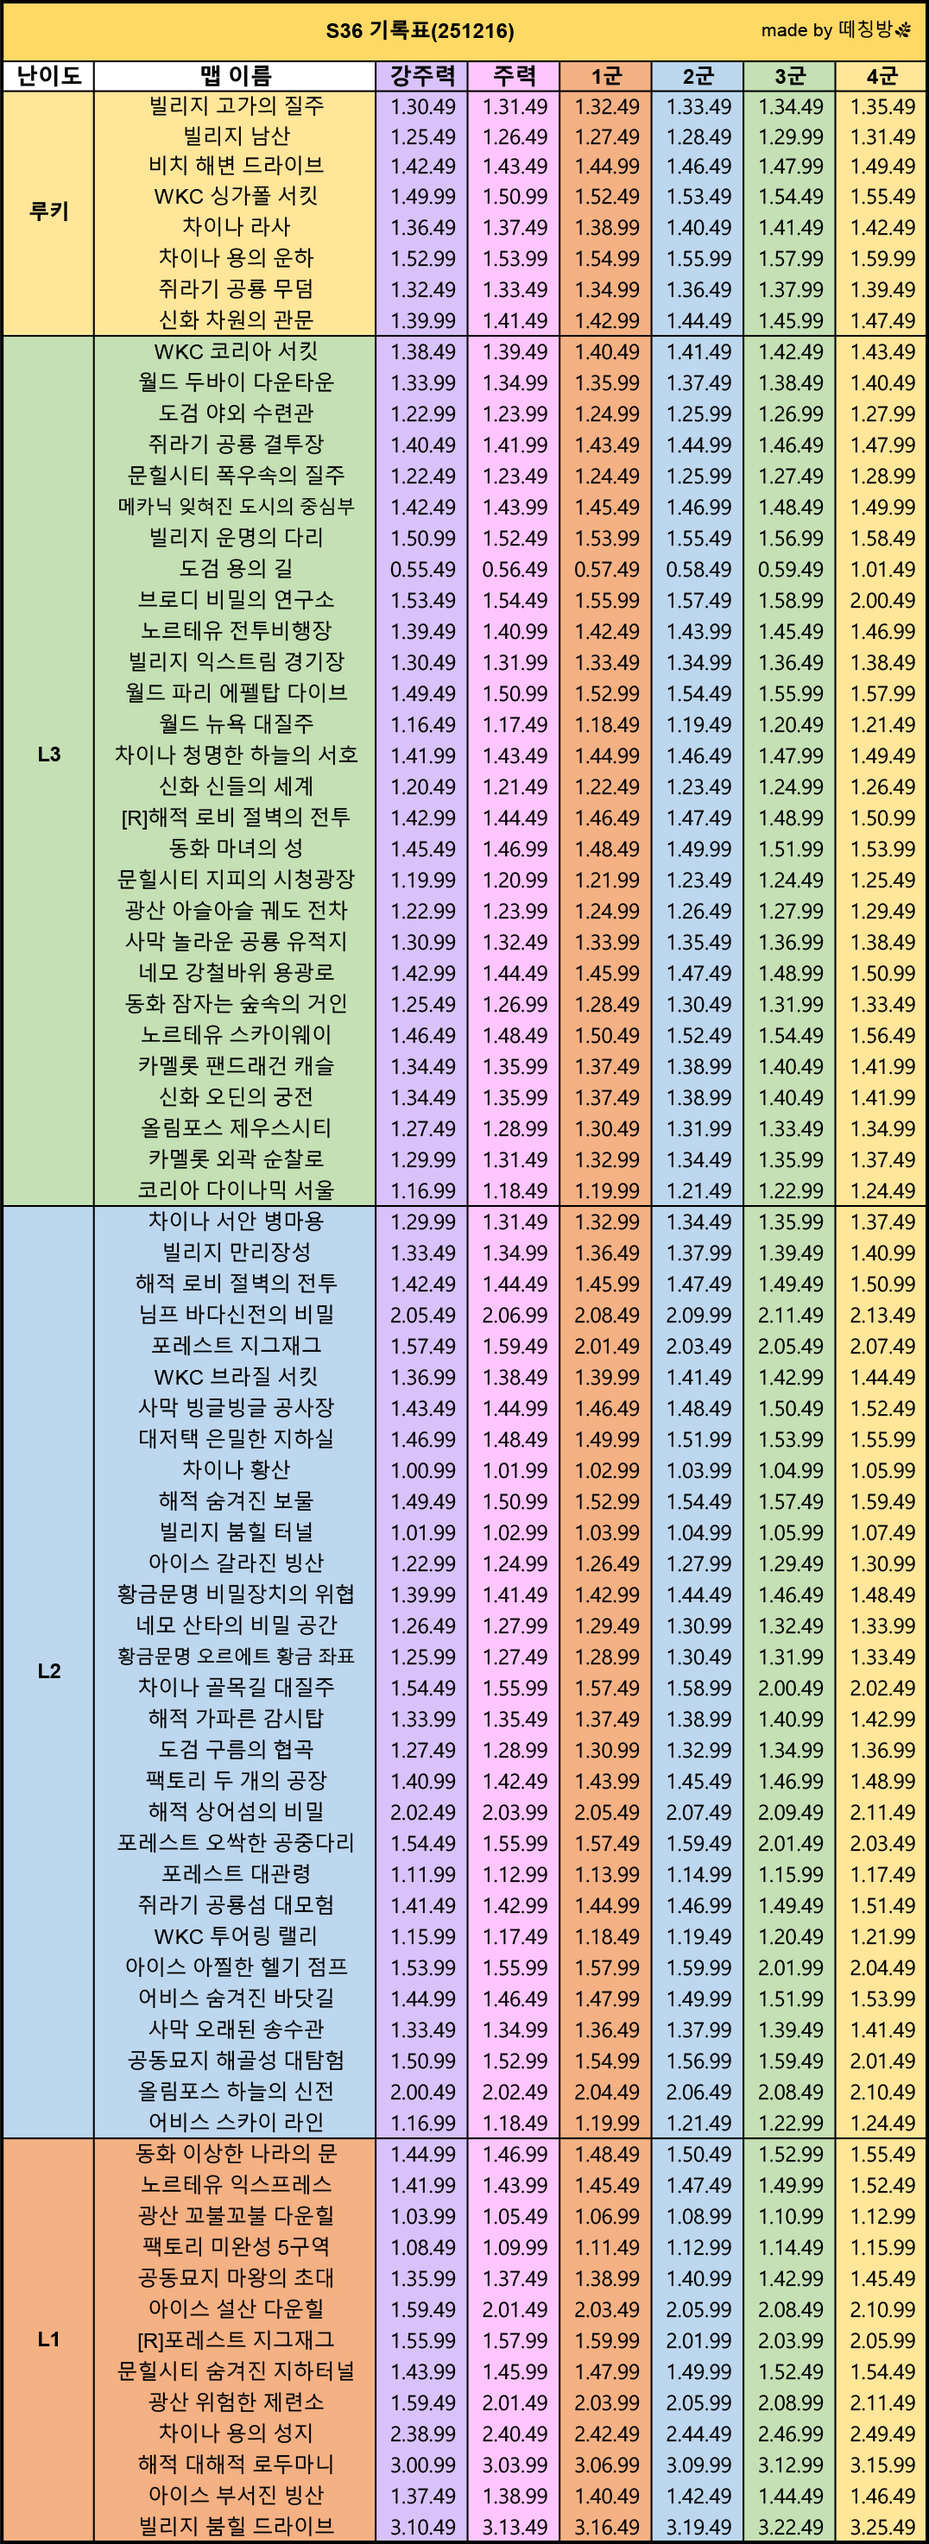
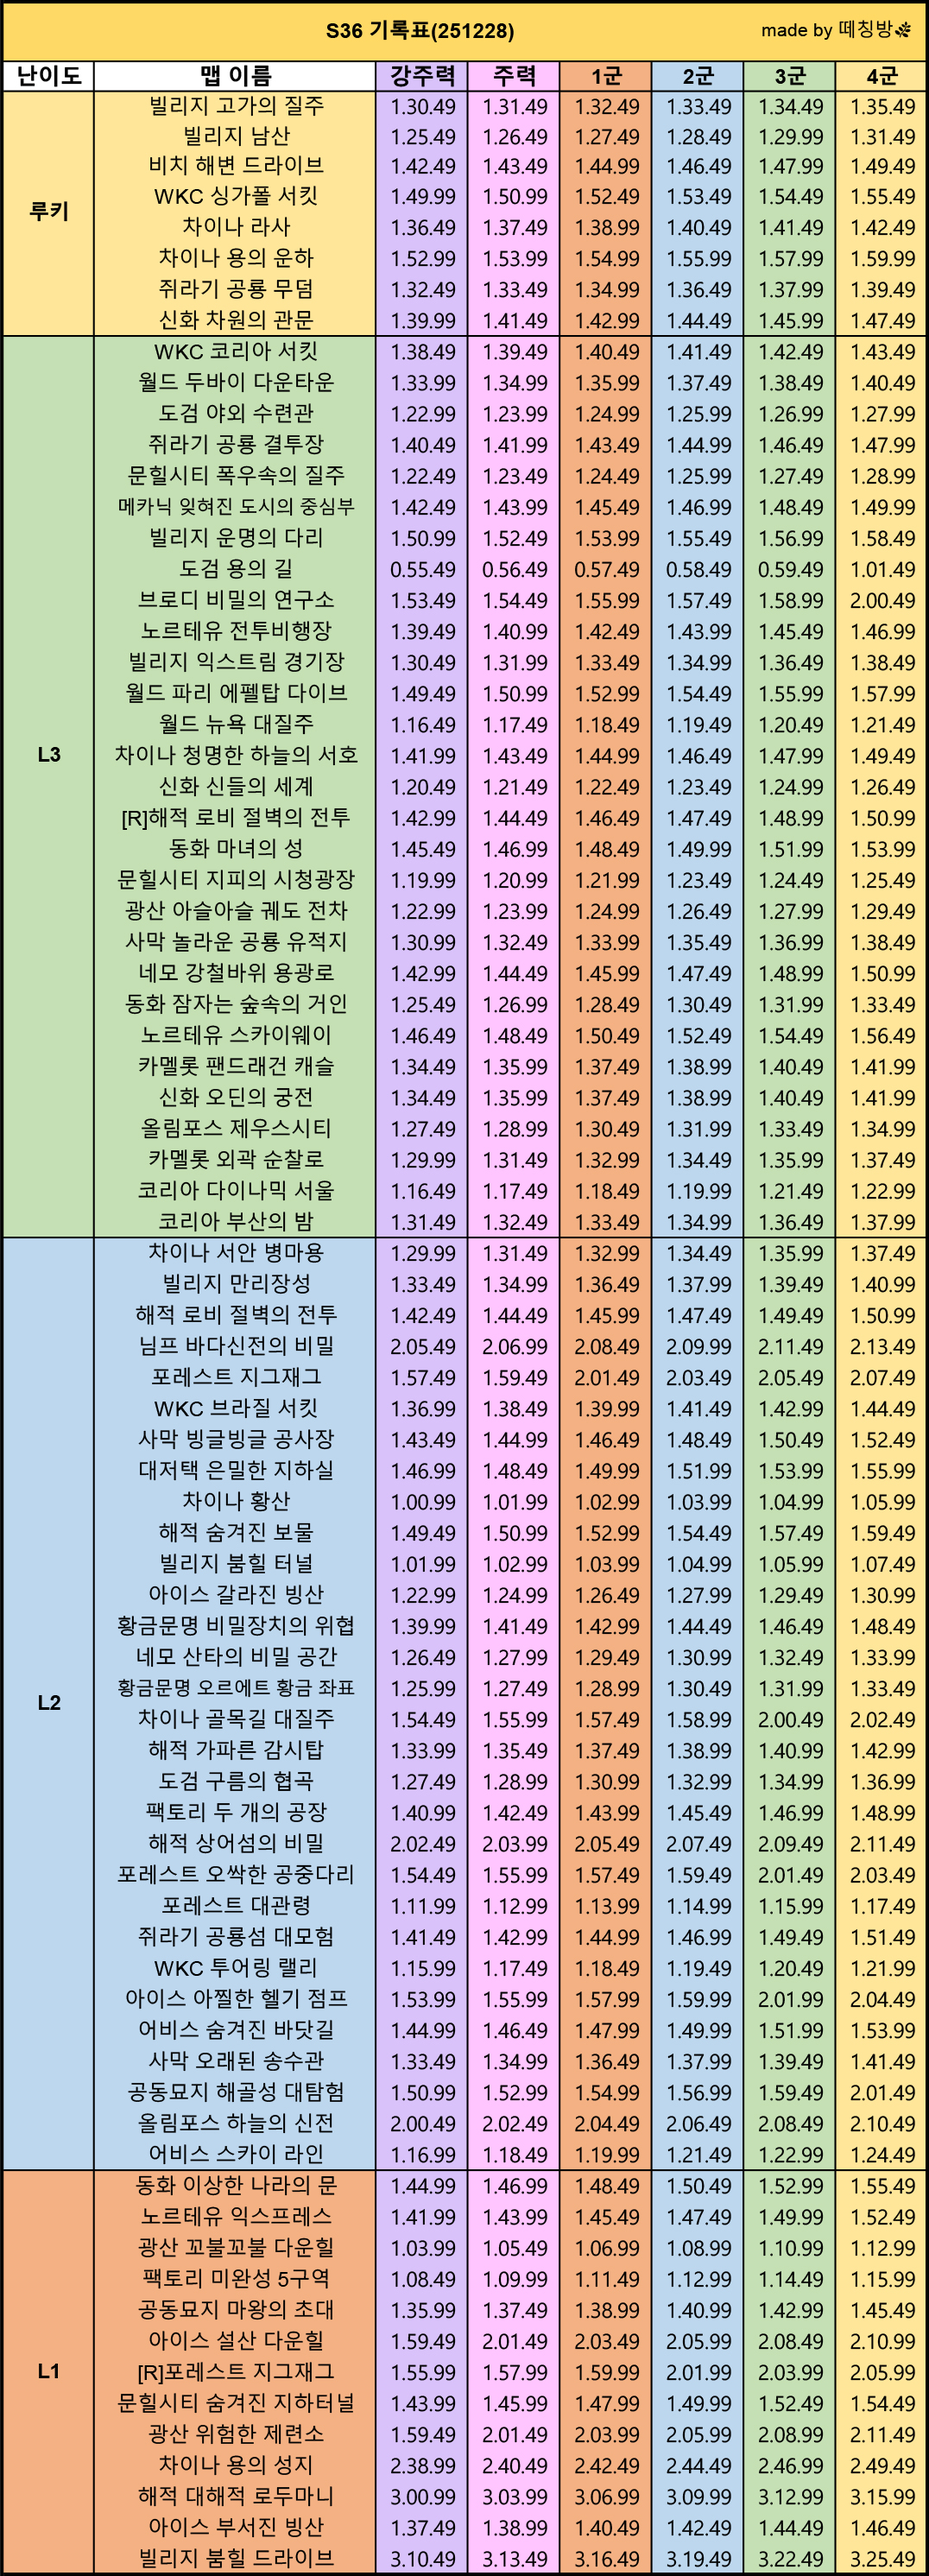
feat: S36 new track

diff --git a/src/app/admin/_components/map-data-section.tsx b/src/app/admin/_components/map-data-section.tsx
@@ -11,6 +11,21 @@ import { convertedMapData } from "@/lib/converted-map-data";
 export function MapDataSection() {
   const [isUpdating, setIsUpdating] = useState(false);
 
+  const season = convertedMapData.season;
+  const mapsCount = convertedMapData.maps.length;
+  const rookieMapsCount = convertedMapData.maps.filter(
+    (map) => map.difficulty === "루키",
+  ).length;
+  const l3MapsCount = convertedMapData.maps.filter(
+    (map) => map.difficulty === "L3",
+  ).length;
+  const l2MapsCount = convertedMapData.maps.filter(
+    (map) => map.difficulty === "L2",
+  ).length;
+  const l1MapsCount = convertedMapData.maps.filter(
+    (map) => map.difficulty === "L1",
+  ).length;
+
   const handleUpdateMapData = async () => {
     if (
       !confirm(
@@ -57,17 +72,18 @@ export function MapDataSection() {
           <div>
             <h3 className="mb-1 font-bold">맵 데이터 업데이트</h3>
             <p className="text-muted-foreground mb-3 text-sm">
-              시즌 36 기준 실제 맵 데이터 (79개)를 데이터베이스에 저장합니다.
+              시즌 {season} 기준 실제 맵 데이터 ({mapsCount}
+              개)를 데이터베이스에 저장합니다.
               <br />
               <span className="text-yellow-600">
                 ⚠ 이전 데이터는 비활성화되며, 새로운 데이터가 활성화됩니다.
               </span>
             </p>
             <div className="text-muted-foreground flex flex-wrap gap-2 text-xs">
-              <Badge variant="outline">루키 8개</Badge>
-              <Badge variant="outline">L3 28개</Badge>
-              <Badge variant="outline">L2 30개</Badge>
-              <Badge variant="outline">L1 13개</Badge>
+              <Badge variant="outline">루키 {rookieMapsCount}개</Badge>
+              <Badge variant="outline">L3 {l3MapsCount}개</Badge>
+              <Badge variant="outline">L2 {l2MapsCount}개</Badge>
+              <Badge variant="outline">L1 {l1MapsCount}개</Badge>
             </div>
           </div>
         </div>

diff --git a/src/lib/converted-map-data.ts b/src/lib/converted-map-data.ts
@@ -504,13 +504,27 @@ export const convertedMapData = {
       difficulty: "L3" as const,
       imageUrl: "/maps/l3/028.webp",
       tierRecords: {
-        elite: "01:16:99",
-        master: "01:18:49",
-        diamond: "01:19:99",
-        platinum: "01:21:49",
-        gold: "01:22:99",
-        silver: "01:24:49",
-        bronze: "01:24:49 +",
+        elite: "01:16:49",
+        master: "01:17:49",
+        diamond: "01:18:49",
+        platinum: "01:19:99",
+        gold: "01:21:49",
+        silver: "01:22:99",
+        bronze: "01:22:99 +",
+      },
+    },
+    {
+      name: "코리아 부산의 밤",
+      difficulty: "L3" as const,
+      imageUrl: "/maps/l3/029.webp",
+      tierRecords: {
+        elite: "01:31:49",
+        master: "01:32:49",
+        diamond: "01:33:49",
+        platinum: "01:34:99",
+        gold: "01:36:49",
+        silver: "01:37:99",
+        bronze: "01:37:99 +",
       },
     },
 
